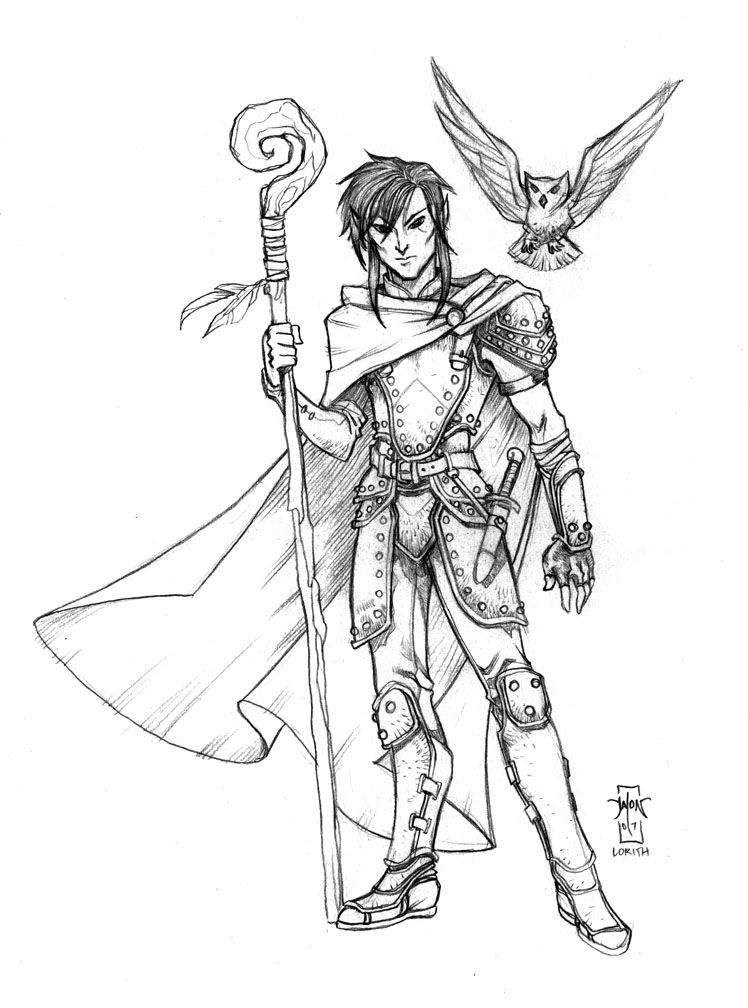
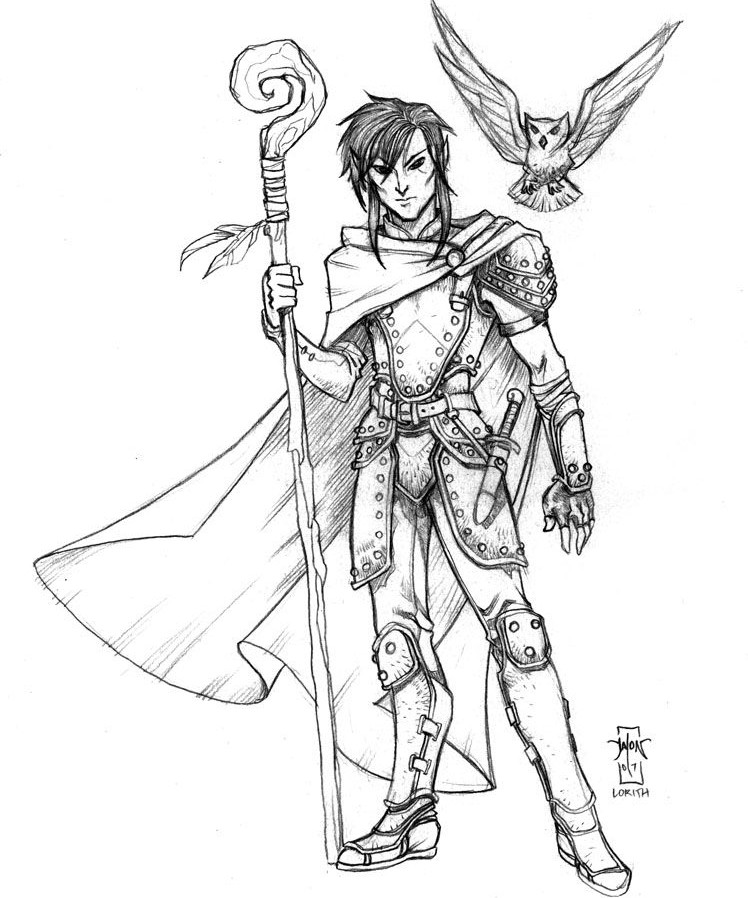
SpecialAbilities "Level 3 Druid spells" and surprise dialog stying Implement SpecialAbilities "Level 3 Druid spells" give it a 50% chanse to cast Call Lightning and 50% chanse to cast Summon Insects. 61,7
I want The dialog shown when you have been surprised by the moster to automatically close after 3 secounds or before that if enter or escape is pressed,
I want the dialog to have the same styling as when entering the stairs. I also want I dialog with the same styling to be shown and autoatically
closed when the party has surprised the monsters 61,9

Changed region(s): [[0.0307, 0.0, 0.9225, 1.0]]

diff --git a/Adnd.Game/EncounterForm.cs b/Adnd.Game/EncounterForm.cs
@@ -478,7 +478,7 @@ public sealed class EncounterForm : Form
 
         if (_session != null && _session.RoundNumber == 1 && _session.PartySurprisedRound1)
         {
-            ViewerMessage.Show(this, "Surprise", "The party has been surprised and cannot act in round 1.");
+            ShowTimedSurpriseDialog(this, "SURPRISE", "PARTY SURPRISED", 3000);
 
             foreach (var member in _party)
             {
@@ -491,8 +491,88 @@ public sealed class EncounterForm : Form
             return;
         }
 
+        if (_session != null && _session.RoundNumber == 1 && _session.MonstersSurprisedRound1)
+            ShowTimedSurpriseDialog(this, "SURPRISE", "MONSTERS SURPRISED", 3000);
+
         _viewerControl = ViewerControlPump.Start(this, ViewerCommands.Combat, InjectViewerKey, HandleViewerCommand);
         ViewerPromptChanged?.Invoke(BuildViewerPrompt());
+    }
+
+    private static void ShowTimedSurpriseDialog(IWin32Window owner, string titleText, string messageText, int autoCloseMilliseconds)
+    {
+        using var form = new Form
+        {
+            Text = titleText,
+            FormBorderStyle = FormBorderStyle.None,
+            StartPosition = FormStartPosition.CenterParent,
+            MinimizeBox = false,
+            MaximizeBox = false,
+            ShowInTaskbar = false,
+            BackColor = Color.Black,
+            ForeColor = GameRulesProvider.Current.DefaultColor,
+            KeyPreview = true,
+            ClientSize = new Size(520, 120),
+        };
+
+        var framePanel = new Panel
+        {
+            Left = 4,
+            Top = 4,
+            Width = form.ClientSize.Width - 8,
+            Height = form.ClientSize.Height - 8,
+            BorderStyle = BorderStyle.FixedSingle,
+            BackColor = Color.Black
+        };
+
+        var titleLabel = new Label
+        {
+            Left = 0,
+            Top = 10,
+            Width = framePanel.ClientSize.Width,
+            Height = 36,
+            Text = titleText,
+            TextAlign = ContentAlignment.MiddleCenter,
+            BackColor = Color.Black,
+            ForeColor = GameRulesProvider.Current.DefaultColor,
+            Font = new Font("Consolas", 22f, FontStyle.Bold)
+        };
+
+        var messageLabel = new Label
+        {
+            Left = 0,
+            Top = 48,
+            Width = framePanel.ClientSize.Width,
+            Height = 34,
+            Text = messageText,
+            TextAlign = ContentAlignment.MiddleCenter,
+            BackColor = Color.Black,
+            ForeColor = GameRulesProvider.Current.DefaultColor,
+            Font = new Font("Consolas", 22f, FontStyle.Bold)
+        };
+
+        var closeTimer = new System.Windows.Forms.Timer { Interval = Math.Max(1, autoCloseMilliseconds) };
+        closeTimer.Tick += (_, _) =>
+        {
+            closeTimer.Stop();
+            form.Close();
+        };
+
+        form.KeyDown += (_, e) =>
+        {
+            if (e.KeyCode == Keys.Enter || e.KeyCode == Keys.Escape)
+            {
+                closeTimer.Stop();
+                form.Close();
+            }
+        };
+
+        form.Shown += (_, _) => closeTimer.Start();
+        form.FormClosed += (_, _) => closeTimer.Dispose();
+
+        framePanel.Controls.Add(titleLabel);
+        framePanel.Controls.Add(messageLabel);
+        form.Controls.Add(framePanel);
+        form.ShowDialog(owner);
     }
 
     protected override void OnFormClosed(FormClosedEventArgs e)
